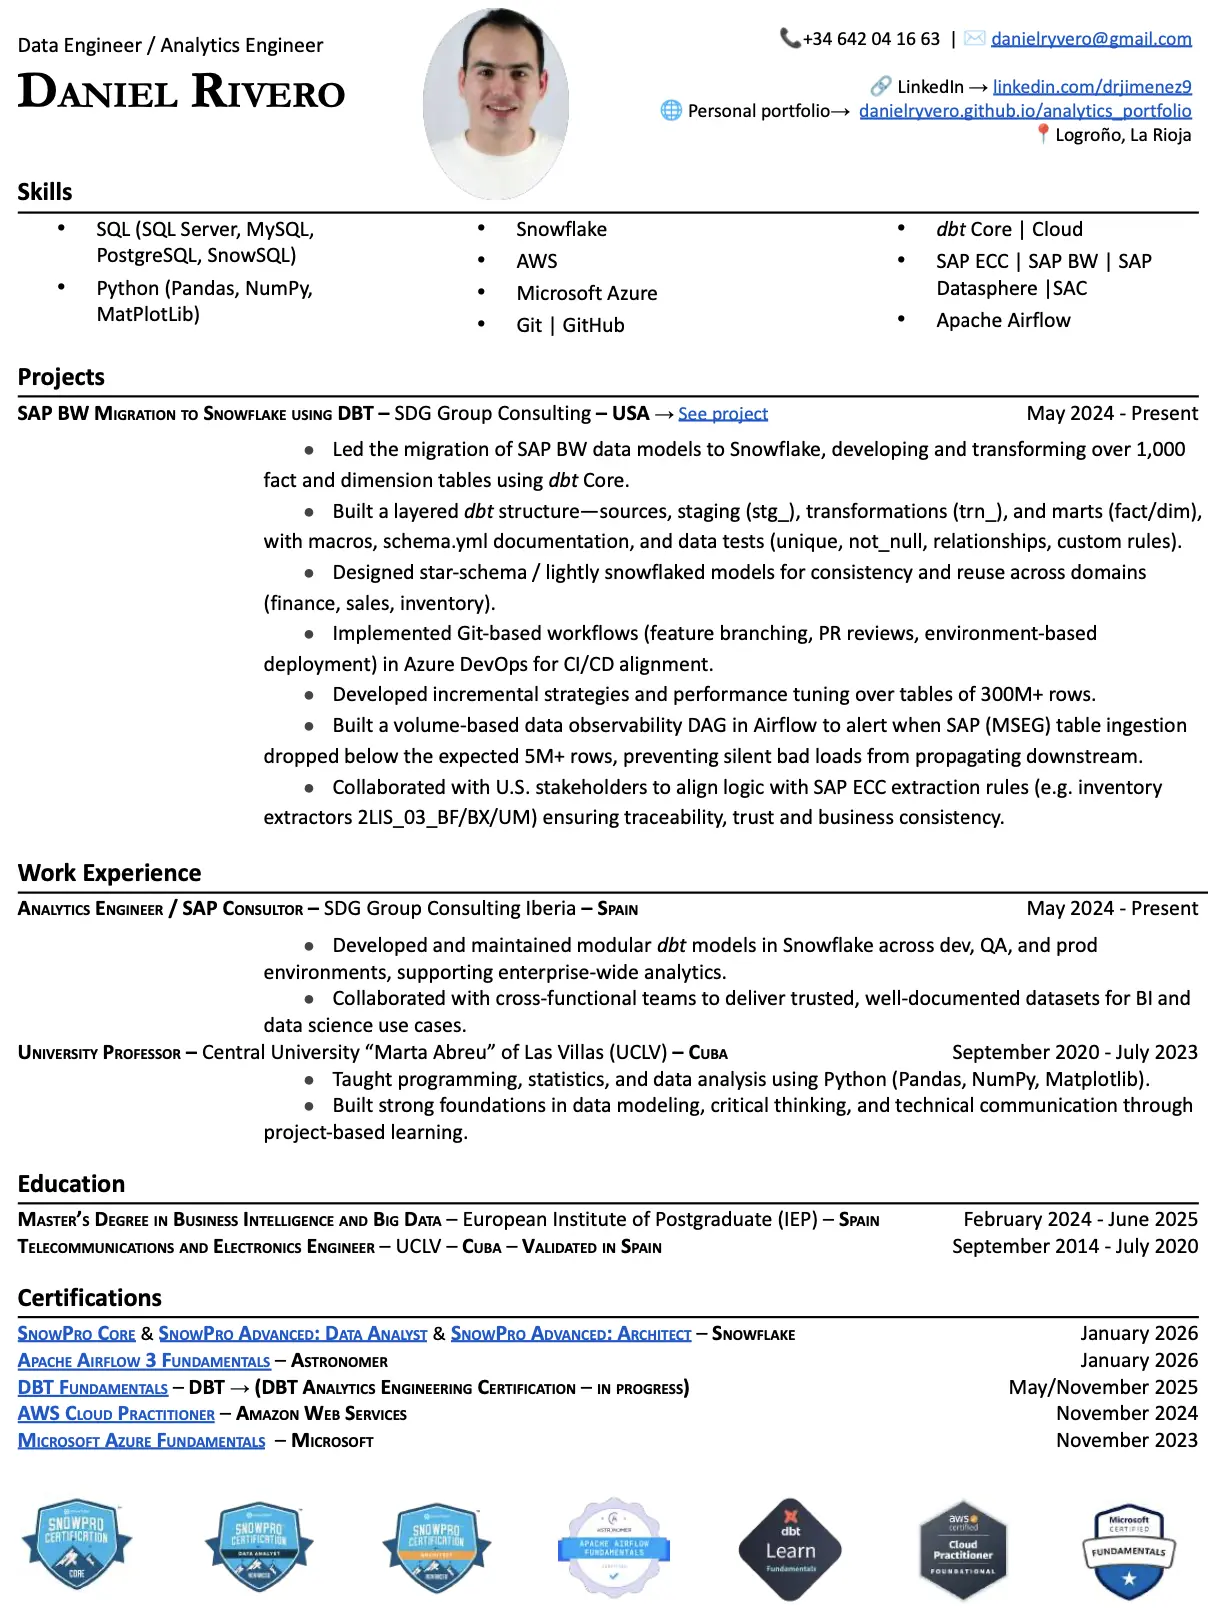
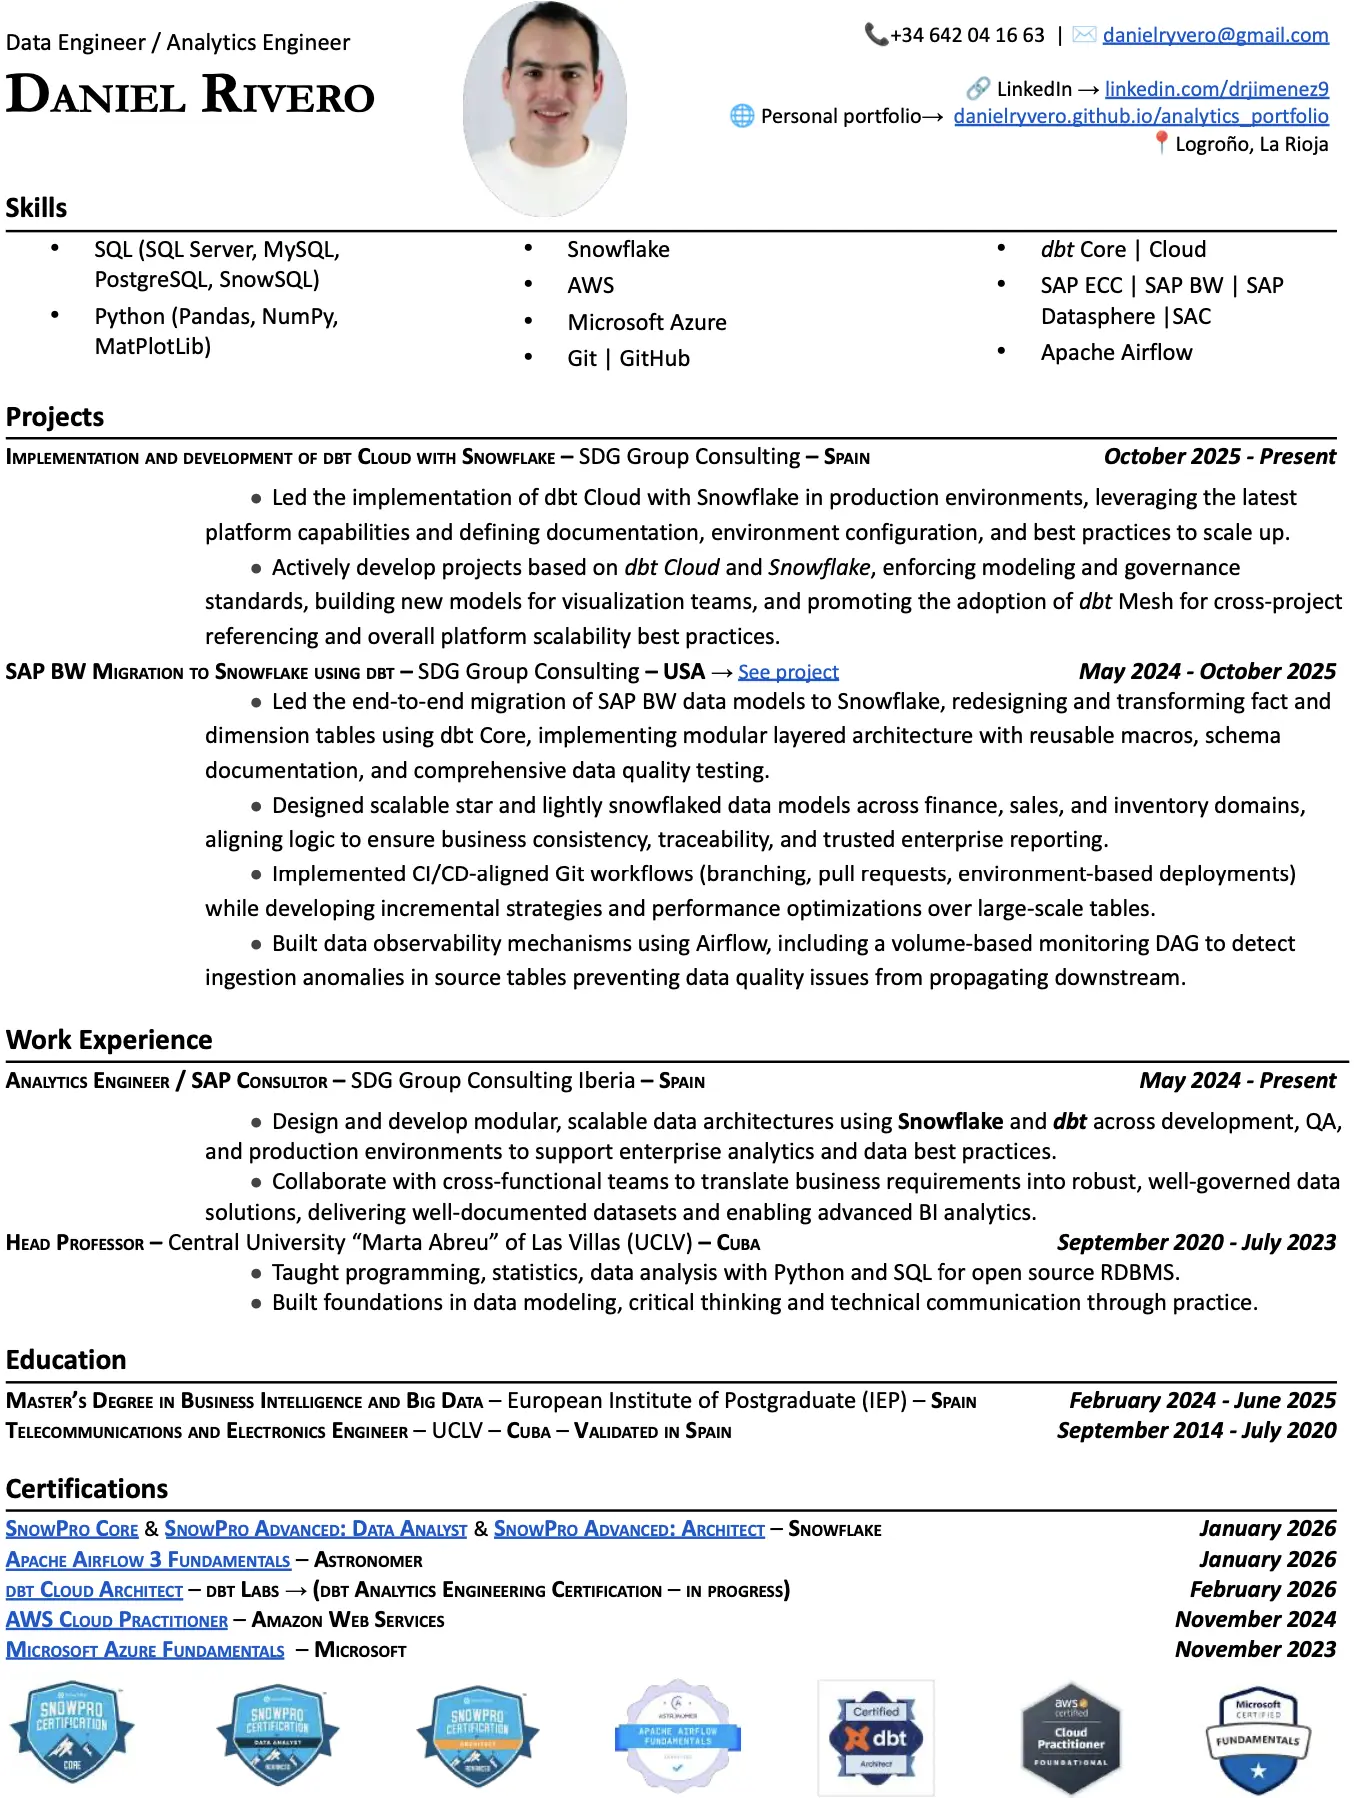
added dbt architect certification. updated cv to march.

diff --git a/index.html b/index.html
@@ -35,8 +35,8 @@
 						All files used for these projects are stored in this dedicated <a class="border" target="_blank" href="https://github.com/danielryvero/Portfolio-Projects-Data-Analytics">GitHub Repository</a>.</p>
 						<h2>About me: <br /></h2>
 						<p>Telecommunications and Electronics Engineer since 2020. <br /> 
-							Currently working as an Analytics Engineer and SAP Consultor for <a class="border" target="_blank" href="https://www.sdggroup.com/">SDG group</a> in Spain, <br />
-							where I have mastered SAP BW & ECC, SAP Datasphere and SAC.<br />
+							Currently working as an Analytics Engineer for <a class="border" target="_blank" href="https://www.sdggroup.com/">SDG group</a> in Spain, <br />
+							where I have mastered Snowflake, dbt, Airflow and SAP ECC.<br />
 							Master's Degree in Business Intelligence and Big Data from the <br /> <a class="border" target="_blank" href="https://iep.edu.es/">European Post-Graduate Institute (IEP)</a> in June, 2025. <br />
 							</p>
 							<p>
@@ -67,8 +67,7 @@
 							</p>
 							<p>
 							<!-- <br>  -->
-							Certified with <a class="border" target="_blank" href="https://www.credential.net/5da7b0d0-85cc-4b3e-99d3-424a0d1c564c#acc.wLeghKGa">dbt Fundamentals</a> &
-							<a class="border" target="_blank" href="https://credentials.getdbt.com/155757c1-0a60-40bf-8b4f-ce8286e46b92#acc.Z2suHjhK">dbt Advocate Accreditation</a>.  
+							Certified <a class="border" target="_blank" href="https://www.credential.net/16e53101-49e8-4715-a067-0a1cc5775cc0#acc.n1Q2xW3J">dbt Cloud Architect</a>.  
 							<!-- <br /> -->
 							</p>	
 						<ul class="actions">
@@ -333,8 +332,8 @@
 		
 											<p>Resume</p>
 											
-											<span><a target="_blank" href="https://drive.google.com/file/d/11-d7DT_WTFbcSJ3lovwI4D3zNpDzvWC5/view?usp=sharing" class="button icon solid fa-download">Download in Spanish</a></span>
-											<span><a target="_blank" href="https://drive.google.com/file/d/1ie6-SlckEadtxSaTyzteOiZafkMA3B9P/view?usp=sharing" class="button icon solid fa-download">Download in English</a></span>
+											<span><a target="_blank" href="https://drive.google.com/file/d/1_RRF1w_DGxNRKpCoffmkWenb-2CdGZ4P/view?usp=sharing" class="button icon solid fa-download">Download in Spanish</a></span>
+											<span><a target="_blank" href="https://drive.google.com/file/d/17vFxyy_xjgkeaI-7NEMGPnLgeRPZHOYg/view?usp=sharing" class="button icon solid fa-download">Download in English</a></span>
 		
 										</header>
 										<div class="image main"><img src="images/2026_cv.webp" alt="CV" /></div>
@@ -359,7 +358,7 @@
 													<div class="col-13"><span class="image mine"><img src="images/azure_certified_fundamentals.webp" alt="" /></span></div>
 													<div class="col-13"><span class="image mine"><img src="images/aws_cloud_practitioner.webp" alt="" /></span></div>	
 													<div class="col-13"><span class="image mine"><img src="images/dbt_fundamentals.webp" alt="" /></span></div>	
-													<div class="col-13"><span class="image mine"><img src="images/dbt_advocate_accreditation.webp" alt="" /></span></div>	
+													<div class="col-13"><span class="image mine"><img src="images/dbt_cloud_architect.webp" alt="" /></span></div>	
 													<!-- Break -->
 												</div>
 											</div>											
@@ -373,6 +372,10 @@
 												<li><a target="_blank" href="https://www.credly.com/badges/4e7741bb-ae1d-404d-a6c2-9711c7d98e5c/public_url" class="button">Airflow 3 Fundamentals</a></li>
 												<li><a target="_blank" href="https://learn.microsoft.com/api/credentials/share/en-us/danielryvero/6AB2B1CE1EDDC65B?sharingId=65B56CB5796967E3" class="button">Microsoft Azure Fundamentals</a></li>
 											</ul>
+											<ul class="actions">
+												<li><a target="_blank" href="https://www.credential.net/16e53101-49e8-4715-a067-0a1cc5775cc0#acc.tXOPYEvG" class="button">dbt Cloud Architect</a></li>
+												<li><a target="_blank" href="https://www.credential.net/155757c1-0a60-40bf-8b4f-ce8286e46b92#acc.StUvVk2H" class="button">dbt Advocate Certification</a></li>
+											</ul>											
 										<!-- Blockquote -->
 										<h2>Working at SDG group, Spain</h2>
 										<blockquote>As an SAP Consultant and Analytics Engineer at SDG Group, I work at the intersection of business and data engineering, helping enterprises modernize their data platforms. My role involves 
